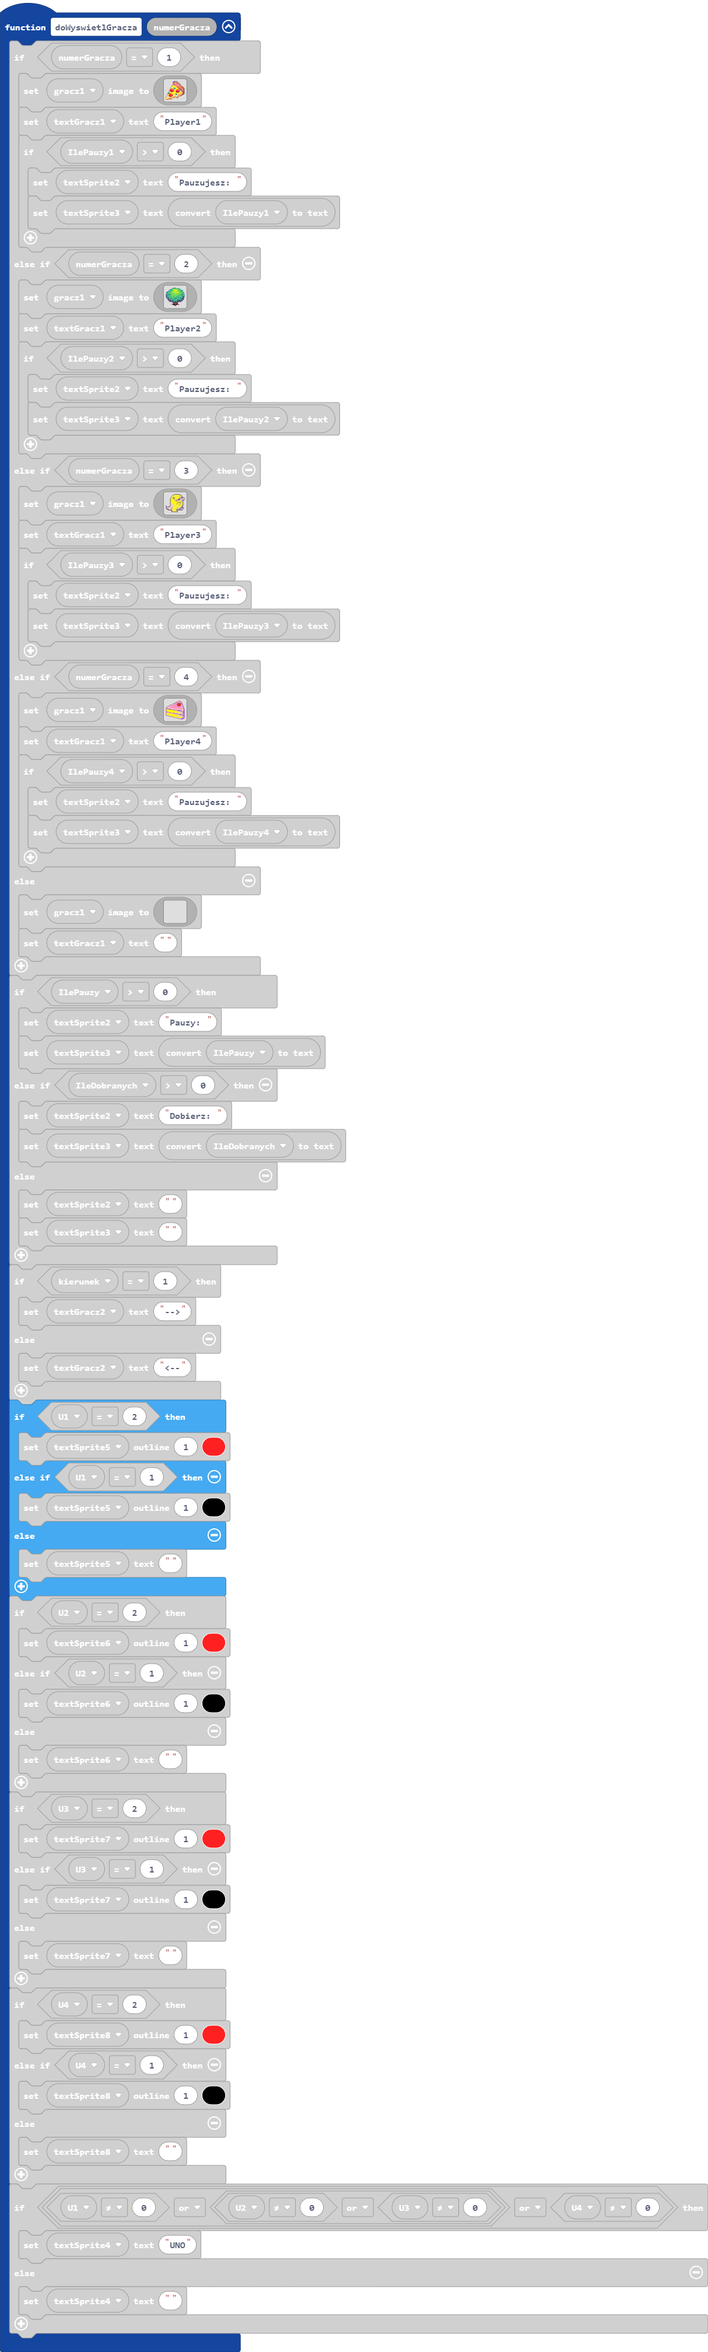
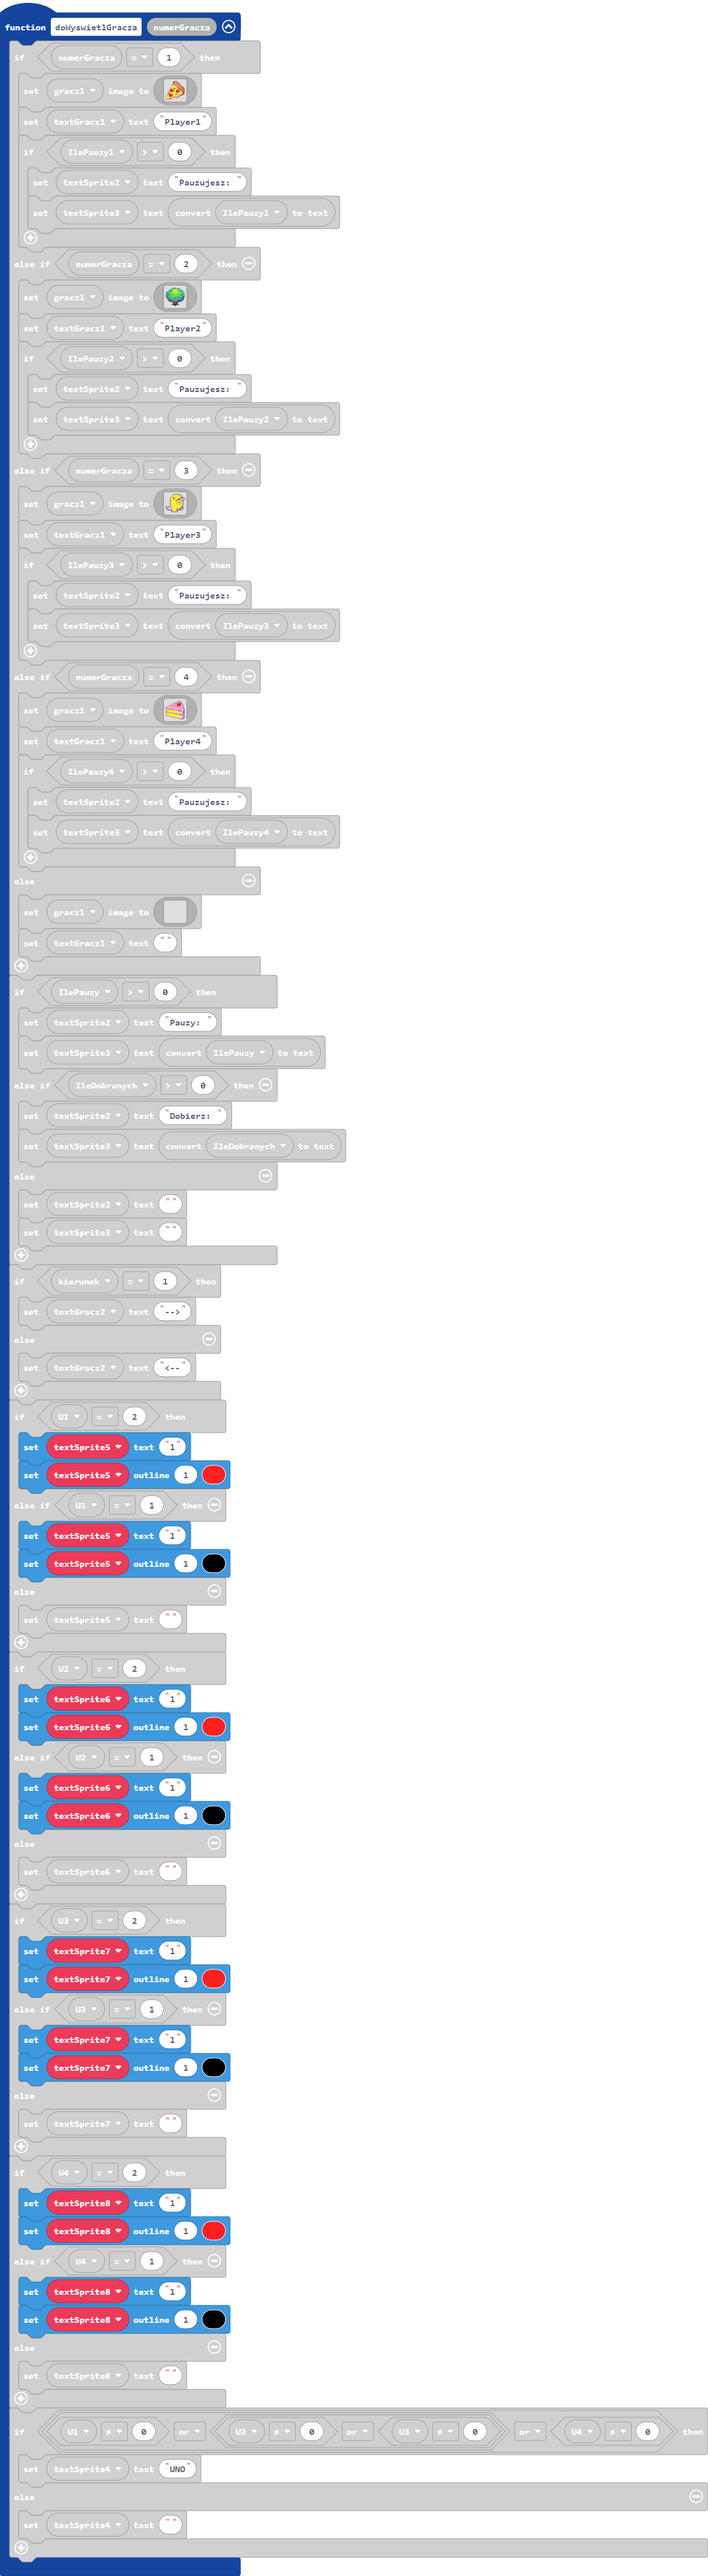
poprawione wyswietlanie UNO dla graczy

Changed region(s): [[0.0, 0.0, 1.0, 1.0]]

diff --git a/main.ts b/main.ts
@@ -784,29 +784,37 @@ function doWyswietlGracza (numerGracza: number) {
         textGracz2.setText("<--")
     }
     if (U1 == 2) {
+        textSprite5.setText("1")
         textSprite5.setOutline(1, 2)
     } else if (U1 == 1) {
+        textSprite5.setText("1")
         textSprite5.setOutline(1, 15)
     } else {
         textSprite5.setText("")
     }
     if (U2 == 2) {
+        textSprite6.setText("1")
         textSprite6.setOutline(1, 2)
     } else if (U2 == 1) {
+        textSprite6.setText("1")
         textSprite6.setOutline(1, 15)
     } else {
         textSprite6.setText("")
     }
     if (U3 == 2) {
+        textSprite7.setText("1")
         textSprite7.setOutline(1, 2)
     } else if (U3 == 1) {
+        textSprite7.setText("1")
         textSprite7.setOutline(1, 15)
     } else {
         textSprite7.setText("")
     }
     if (U4 == 2) {
+        textSprite8.setText("1")
         textSprite8.setOutline(1, 2)
     } else if (U4 == 1) {
+        textSprite8.setText("1")
         textSprite8.setOutline(1, 15)
     } else {
         textSprite8.setText("")
